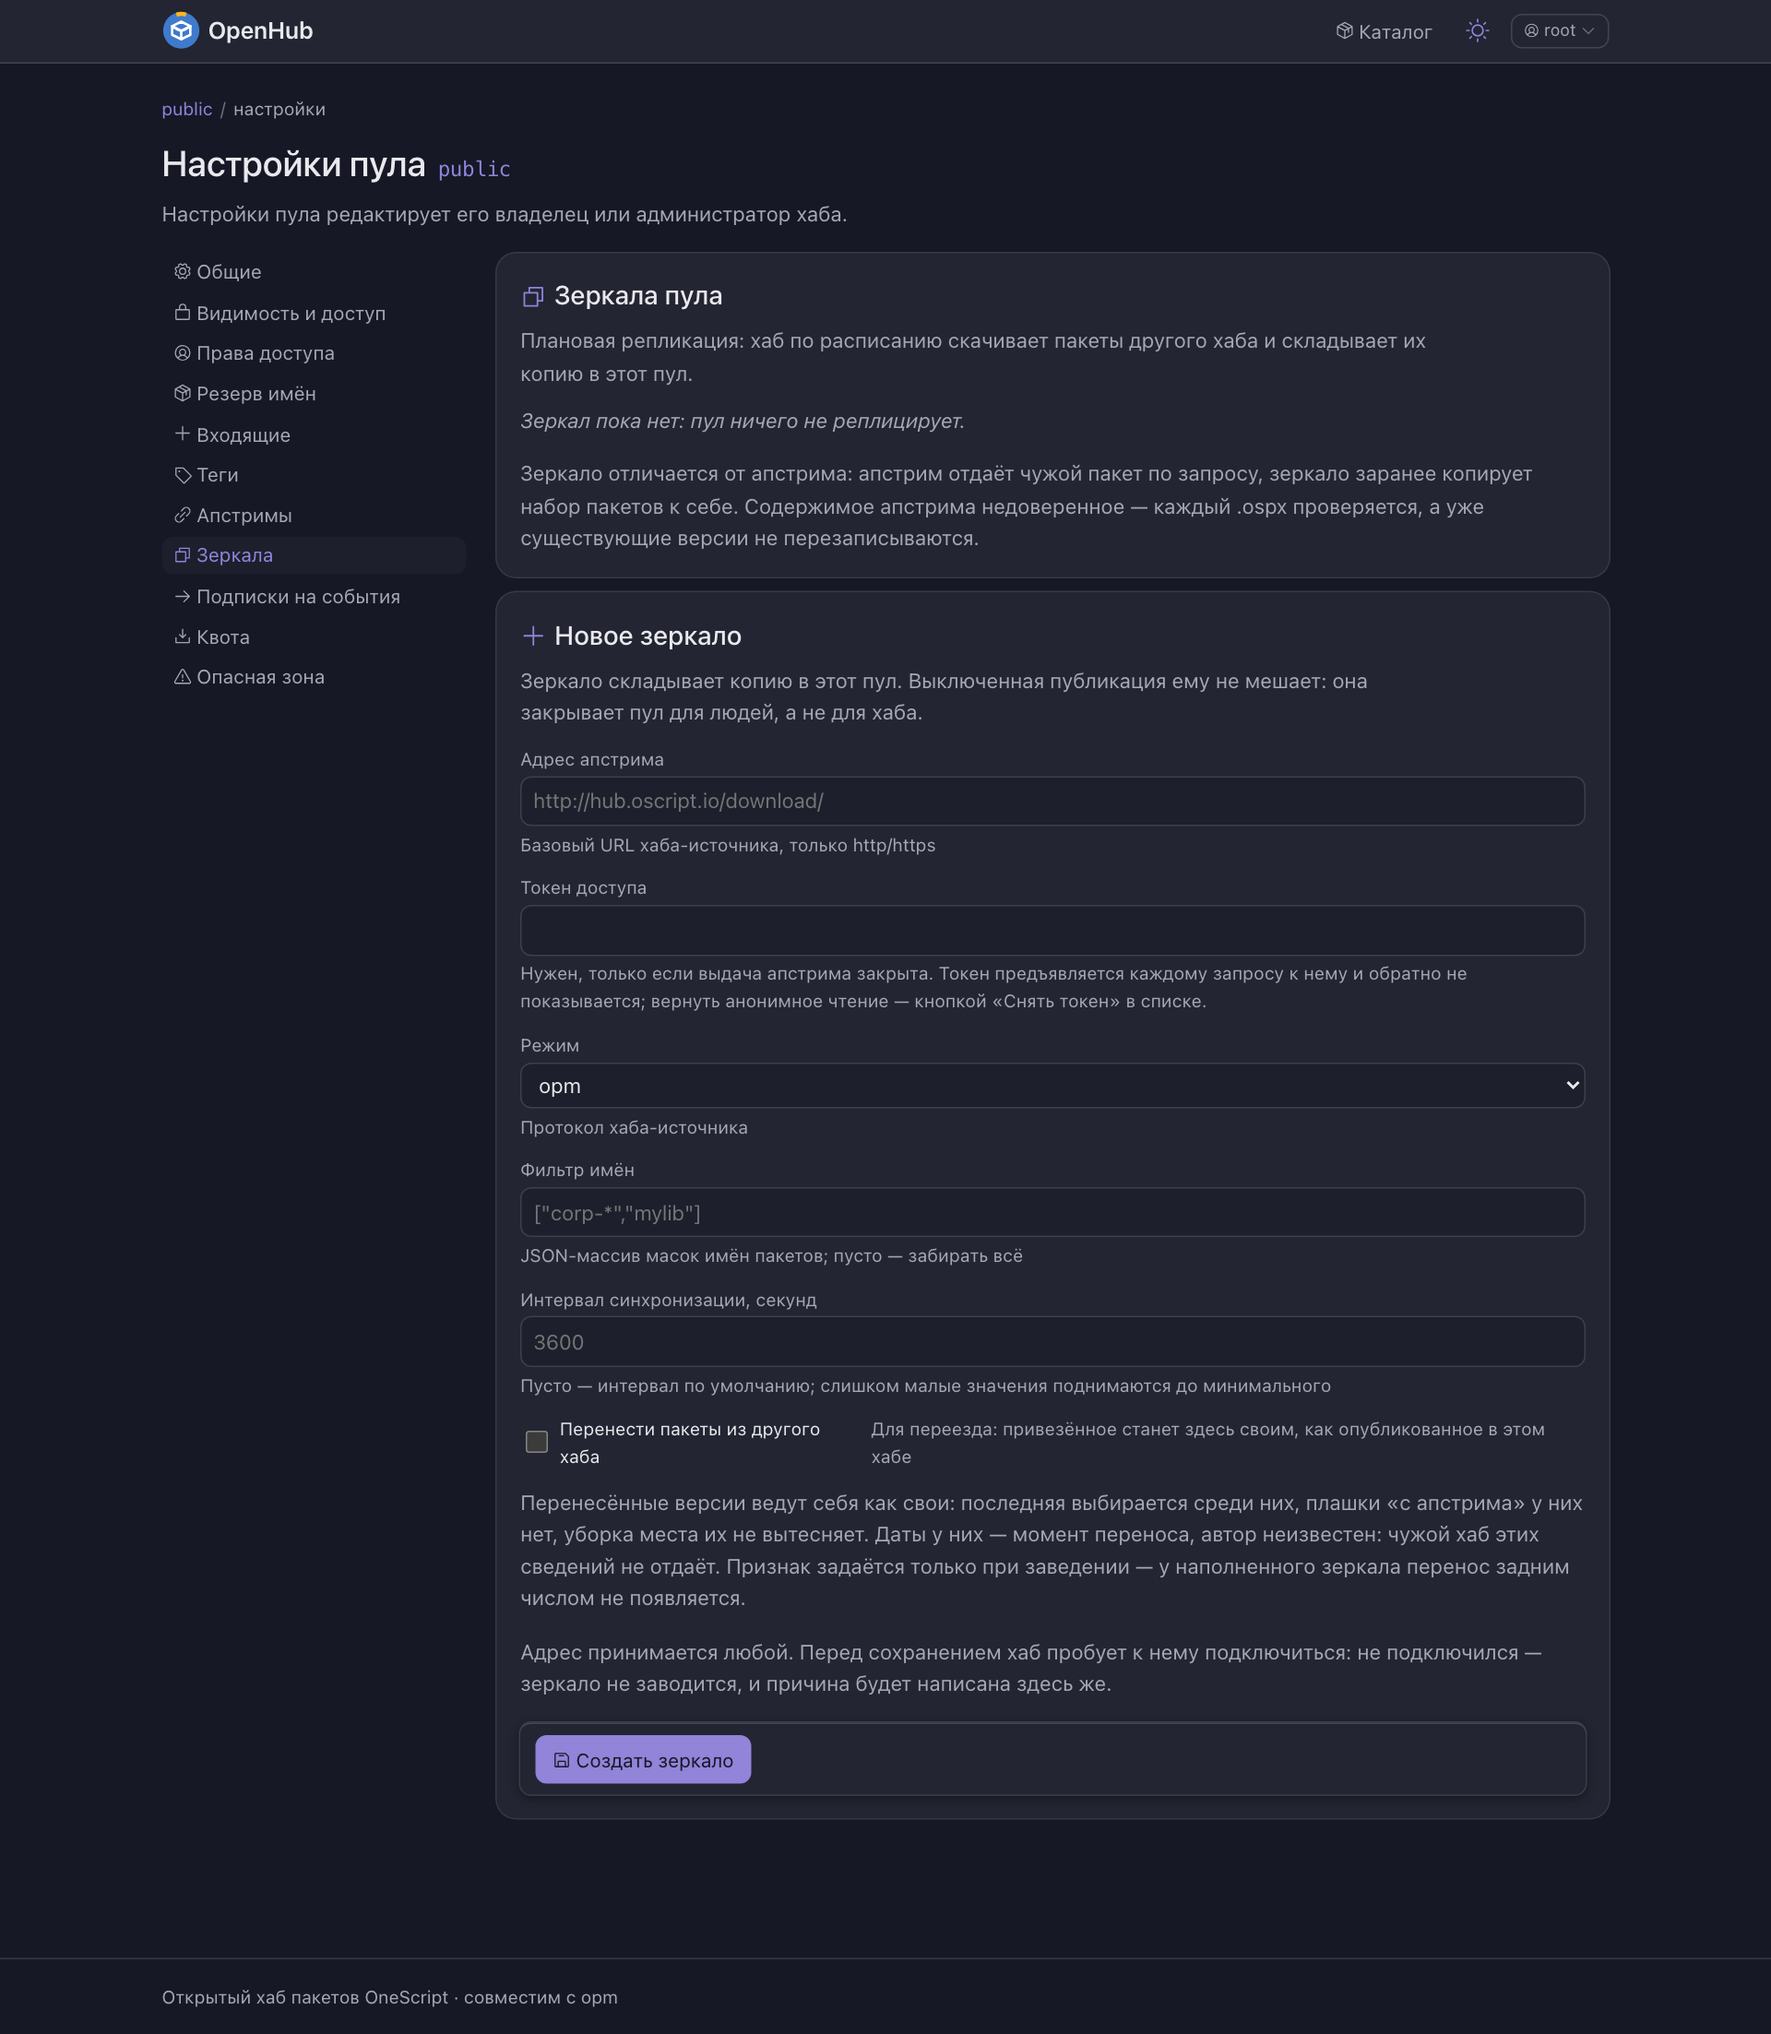
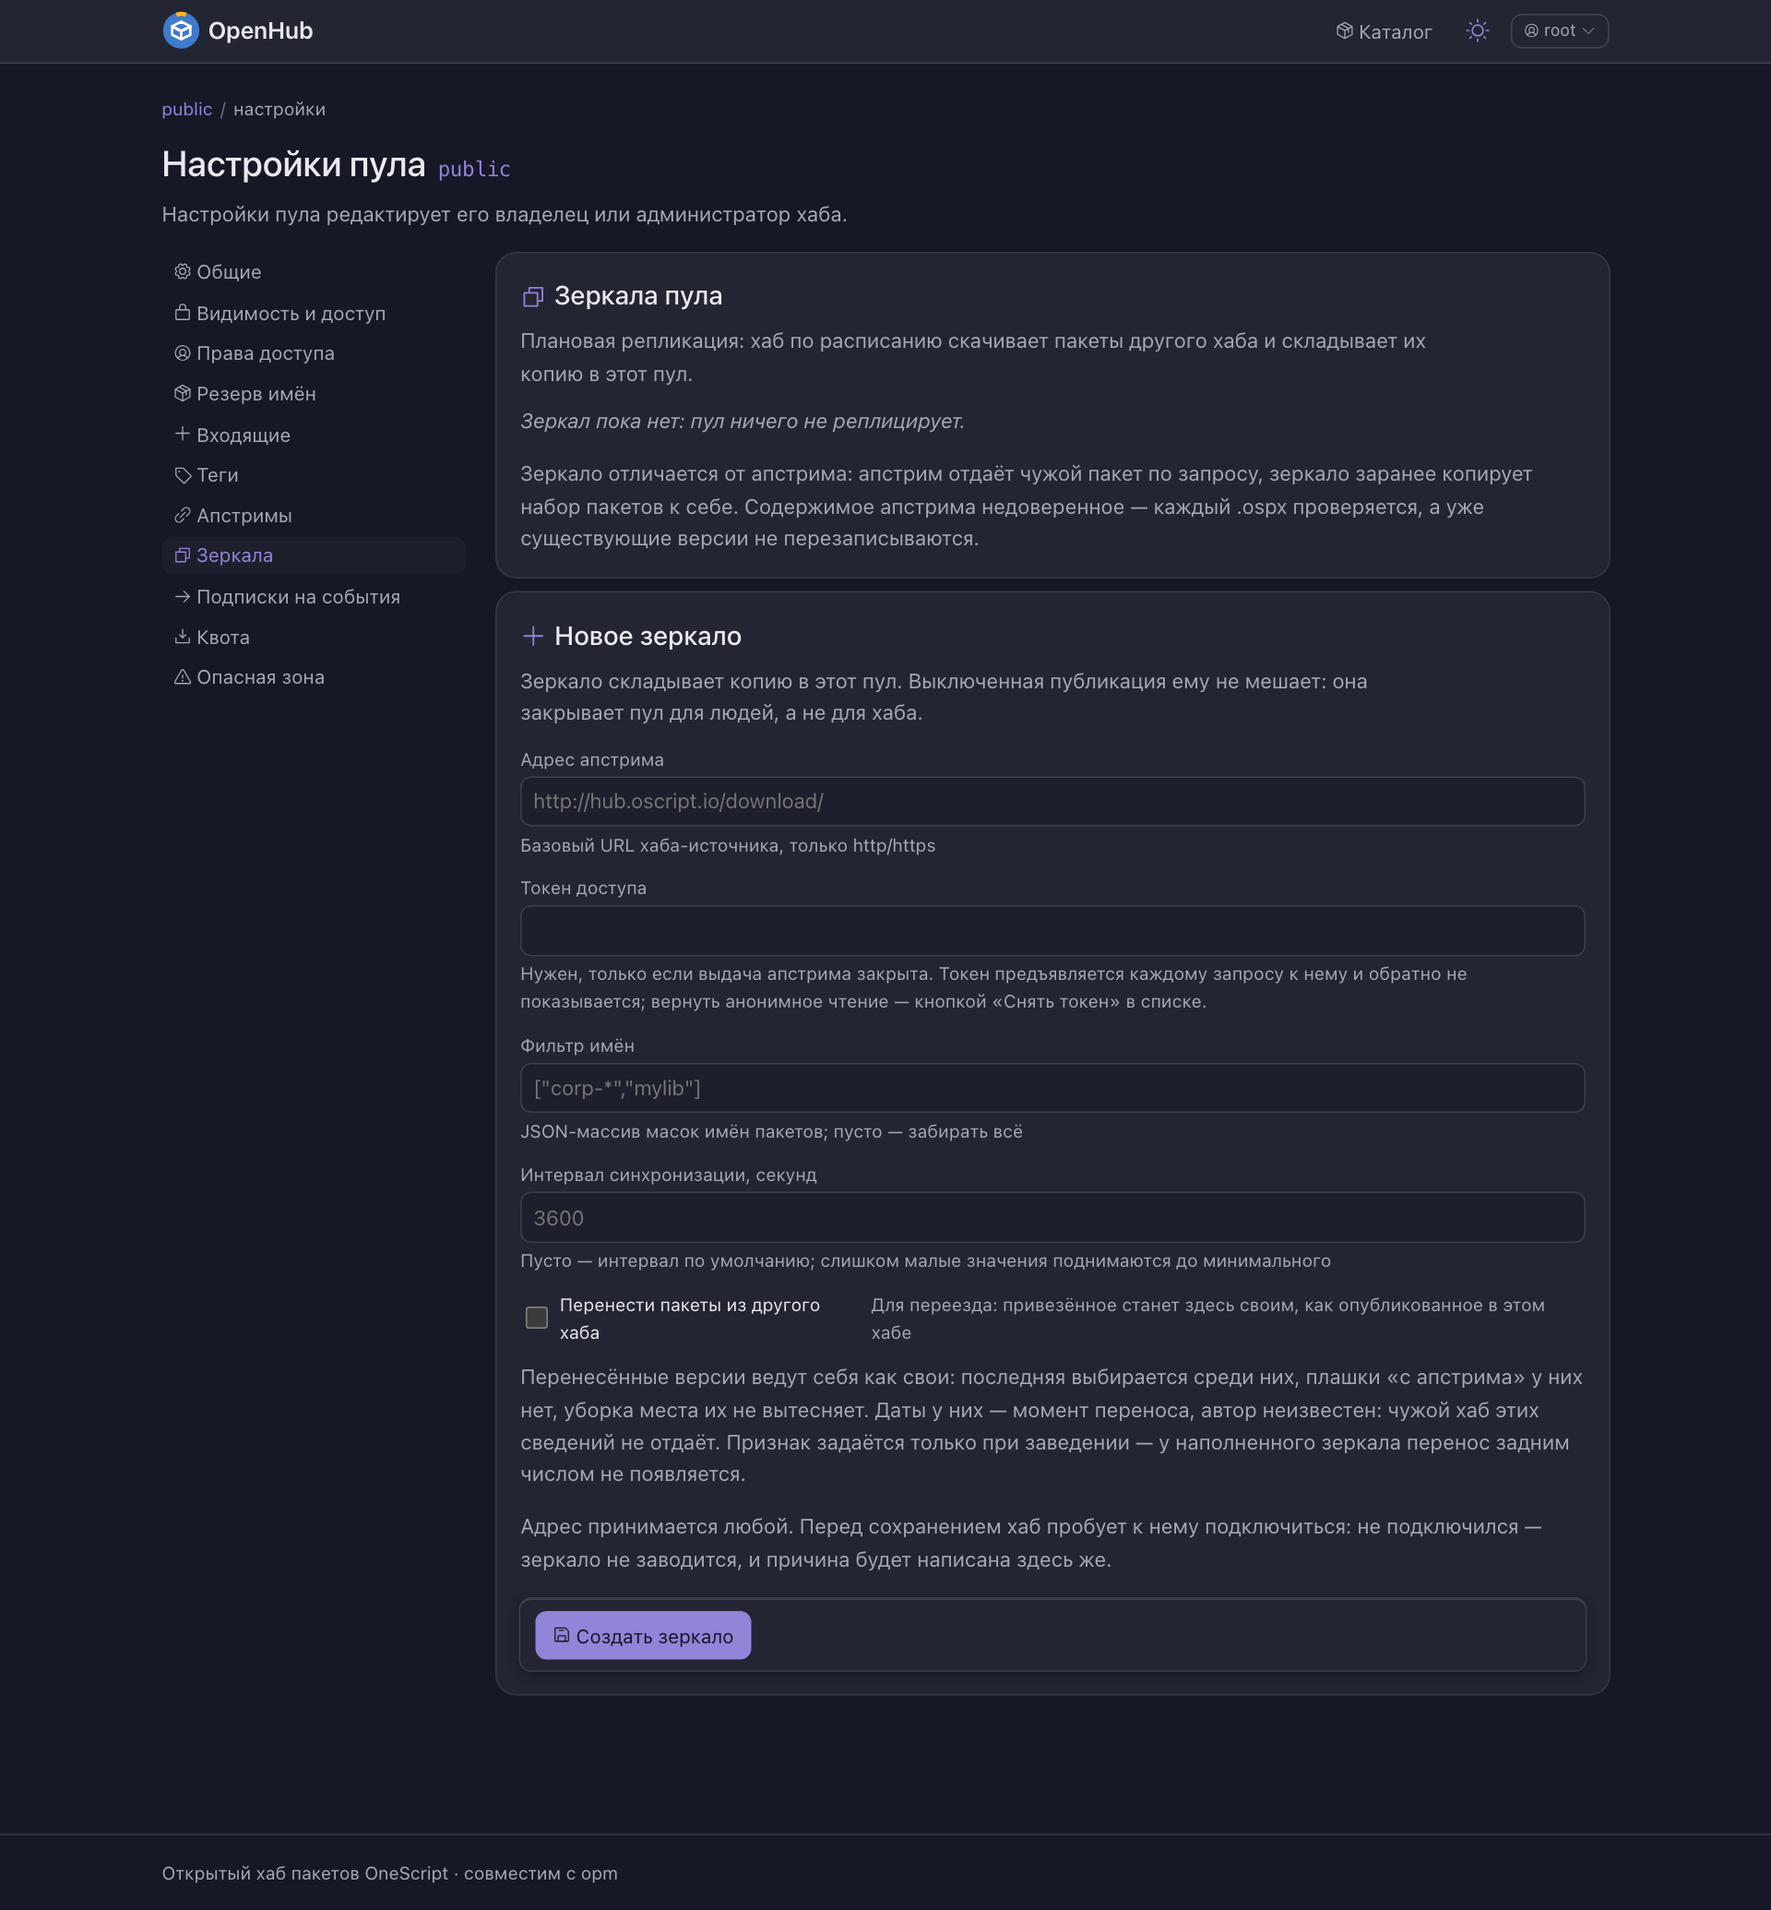
Версия 0.7.18: протокол источника зеркала хаб определяет сам (ИСТ-ЗЕРК-018); эталон регрессии 3940/3924/16/0, 203 набора; 42 набора с тегом «хаб»; скриншот зеркал пула переснят без поля «Режим»

diff --git a/CLAUDE.md b/CLAUDE.md
@@ -254,7 +254,7 @@
 - Тесты — OneUnit (+asserts), MCP-сервер подключён через `.mcp.json` (`run_tests` /
   `discover_tests`, тесты в `./tests`). Definition of Done любого шага: код + тесты +
   зелёный CI. Работа без тестов не считается завершённой.
-- **Уровни прогона размечены тегами OneUnit.** `&Тег("хаб")` — на 41 наборе (пересчёт 2026-09-12), поднимающих
+- **Уровни прогона размечены тегами OneUnit.** `&Тег("хаб")` — на 42 наборах (пересчёт 2026-09-12), поднимающих
   живой хаб фикстурой `ЭкземплярХаба`; `&Тег("внешние")` — на четырёх наборах, которым нужна
   внешняя система (`S3СмоукMinIO`, `СмокБэкендов`, `ЗеркалоАпстримЖивой`,
   `ЗеркалоРеальныйАпстрим`); набор вправе нести оба тега сразу — OneUnit собирает все
@@ -275,7 +275,7 @@
   | --- | --- | --- | --- |
   | смоук | `scripts/смоук.sh` | после каждого шага работы | **33 в 6 наборах, 0 ошибочных / 66 с** (2026-08-10, приёмка волны раскладки) |
   | быстрый (по умолчанию) | `oneunit execute -T хаб -T внешние` | перед коммитом | **не переснят с 2026-08-07** — прежнее число (2617/2597, 140 наборов) устарело на десяток мержей. Кому понадобится уровень — замерь и впиши; экономия к регрессии всё равно около шести процентов (см. ⚠ ниже) |
-  | регрессия | `oneunit execute -T внешние` | перед вливанием в main, после ревью | **3918 обнаружено / 3902 зелёных / 16 пропусков / 0 ошибочных, 202 набора успешных** (замер 2026-09-12, `6080b1a0`, OneScript 2.2.0, autumn-data 2.0.0, релиз 0.7.17: пакеты переносятся из другого хаба как свои — ИСТ-ЗЕРК-017, +22 сторожа и набор `ПустойПул_Тесты`, регрессия на замороженном main — чистый ноль. Прежние эталоны: 3896 / 3880 / 16 / 0, 201 набор — 2026-09-11, `bde04241`, релиз 0.7.16: пакет скачивается файлом со страницы — ИСТ-КАТ-024, +16 сторожей и набор `АдресаВыдачи_Тесты`; 3880 / 3864 / 16 / 0, 200 наборов — 2026-09-11, `2d02df13`, релиз 0.7.15: живой слот `SNAPSHOT` источника — ИСТ-ЗЕРК-016, +12 сторожей; 3868 / 3852 / 16 / 0, 200 наборов — 2026-09-06, `d877496e`, релиз 0.7.14: доработка по первому финальному мутационному кругу — 186 мутаций, 15 ложных защит закрыты +23 сторожами, 2354 с; 3845 / 3829 / 16 / 0, 200 наборов — 2026-09-06, `c2606324`, **OneScript 2.2.0, entity 4.4.0.1**, релиз 0.7.12: пятый заход раунда смыслового дублирования — З6, З7, П1 — и трек обновления рантайма О2 влиты, регрессия на замороженном main — чистый ноль; те же числа один в один на `f167f0b7`, релиз 0.7.13 с autumn-data 2.0.0, 2442 с. Прежние эталоны: 3802 / 3786 / 16 / 0, 198 наборов — 2026-09-05, `e3850c13`, релиз 0.7.11 на 2.0.2; Наборов пропущено 3, а с `&Тег("внешние")` их четыре — это не расхождение: `СмокБэкендов_Тесты` объявлен `&Изолированный(Уровень = "Процесс")`, а OneUnit 0.4.1 не передаёт фильтр тегов в изолированные наборы (см. ЗНАНИЕ), поэтому он запускается и сам пропускает свои тесты по окружению — они и входят в 16 пропущенных. Прежние эталоны: 3762 / 3746 / 16 / 0, 195 наборов — 2026-09-05, `adf26019`, релиз 0.7.10, волна 2 и заходы 2–3; 3655 / 3639 / 16 / 0, 186 наборов — 2026-09-05, `f2234e0b`, релиз 0.7.9, волна 1; 3545 / 3529 / 16 / 0, 172 набора — 2026-09-05, `0d0450c6`, релиз 0.7.8, переход на errors/ip/url; 3487 / 3471 / 16 / 0, 170 наборов — 2026-09-04, `1cb24f98`, четыре трека библиотек; 3377 / 3361 / 16 / 0, 162 набора — 2026-09-03, раунд рефакторинга, волны 1–3; 3373 / 3357 / 16 / 0, 162 набора — волна 1 того же дня; 3327 / 3311 / 16 / 0, 160 наборов — трек П, `5fad166e`; 3289 / 3273 / 16 / 0, 157 наборов — 2026-08-20, `1f0ab977`); 3289 / 3273 / 16 / 0, 157 наборов — 2026-08-20, `1f0ab977`) |
+  | регрессия | `oneunit execute -T внешние` | перед вливанием в main, после ревью | **3940 обнаружено / 3924 зелёных / 16 пропусков / 0 ошибочных, 203 набора успешных** (замер 2026-09-12, `b79600f2`, OneScript 2.2.0, autumn-data 2.0.0, релиз 0.7.18: протокол источника зеркала хаб определяет сам — ИСТ-ЗЕРК-018, +22 сторожа и живой набор `ЗеркалоСвоегоХаба_Тесты`, регрессия на замороженном main — чистый ноль. Прежние эталоны: 3918 / 3902 / 16 / 0, 202 набора — 2026-09-12, `6080b1a0` и `491ca30b`, релиз 0.7.17: пакеты переносятся из другого хаба как свои — ИСТ-ЗЕРК-017, +22 сторожа и набор `ПустойПул_Тесты`; 3896 / 3880 / 16 / 0, 201 набор — 2026-09-11, `bde04241`, релиз 0.7.16: пакет скачивается файлом со страницы — ИСТ-КАТ-024, +16 сторожей и набор `АдресаВыдачи_Тесты`; 3880 / 3864 / 16 / 0, 200 наборов — 2026-09-11, `2d02df13`, релиз 0.7.15: живой слот `SNAPSHOT` источника — ИСТ-ЗЕРК-016, +12 сторожей; 3868 / 3852 / 16 / 0, 200 наборов — 2026-09-06, `d877496e`, релиз 0.7.14: доработка по первому финальному мутационному кругу — 186 мутаций, 15 ложных защит закрыты +23 сторожами, 2354 с; 3845 / 3829 / 16 / 0, 200 наборов — 2026-09-06, `c2606324`, **OneScript 2.2.0, entity 4.4.0.1**, релиз 0.7.12: пятый заход раунда смыслового дублирования — З6, З7, П1 — и трек обновления рантайма О2 влиты, регрессия на замороженном main — чистый ноль; те же числа один в один на `f167f0b7`, релиз 0.7.13 с autumn-data 2.0.0, 2442 с. Прежние эталоны: 3802 / 3786 / 16 / 0, 198 наборов — 2026-09-05, `e3850c13`, релиз 0.7.11 на 2.0.2; Наборов пропущено 3, а с `&Тег("внешние")` их четыре — это не расхождение: `СмокБэкендов_Тесты` объявлен `&Изолированный(Уровень = "Процесс")`, а OneUnit 0.4.1 не передаёт фильтр тегов в изолированные наборы (см. ЗНАНИЕ), поэтому он запускается и сам пропускает свои тесты по окружению — они и входят в 16 пропущенных. Прежние эталоны: 3762 / 3746 / 16 / 0, 195 наборов — 2026-09-05, `adf26019`, релиз 0.7.10, волна 2 и заходы 2–3; 3655 / 3639 / 16 / 0, 186 наборов — 2026-09-05, `f2234e0b`, релиз 0.7.9, волна 1; 3545 / 3529 / 16 / 0, 172 набора — 2026-09-05, `0d0450c6`, релиз 0.7.8, переход на errors/ip/url; 3487 / 3471 / 16 / 0, 170 наборов — 2026-09-04, `1cb24f98`, четыре трека библиотек; 3377 / 3361 / 16 / 0, 162 набора — 2026-09-03, раунд рефакторинга, волны 1–3; 3373 / 3357 / 16 / 0, 162 набора — волна 1 того же дня; 3327 / 3311 / 16 / 0, 160 наборов — трек П, `5fad166e`; 3289 / 3273 / 16 / 0, 157 наборов — 2026-08-20, `1f0ab977`); 3289 / 3273 / 16 / 0, 157 наборов — 2026-08-20, `1f0ab977`) |
   | всё, включая внешние | `oneunit execute` + `OSHUB_S3_SMOKE`, `OSHUB_TEST_PG_DSN`, `OSHUB_MIRROR_LIVE` | руками, когда подняты MinIO и PostgreSQL | 2429 (устарело) |
 
   ⚠ **Числа волны 2026-08-08 меняются каждый день.** Кит уехал библиотекой веткой
